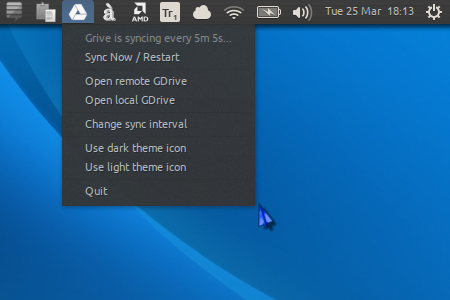
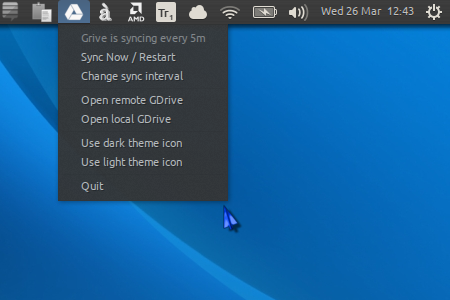
Changed "set sync interval" method, menu position and info, and desktop filename

Changed region(s): [[0.0, 0.0, 0.8089, 0.78], [0.8711, 0.0, 0.9333, 0.06]]

diff --git a/README.md b/README.md
@@ -33,5 +33,6 @@ ToDo
 Changelog
 ===============
 
+0.98: Changed "set sync interval" method, menu position and info, and desktop filename
 0.97: Added "Sync Now / Restart" menu item
 0.96: Fixed and enhanced INFO menu item to show Grive sync interval
